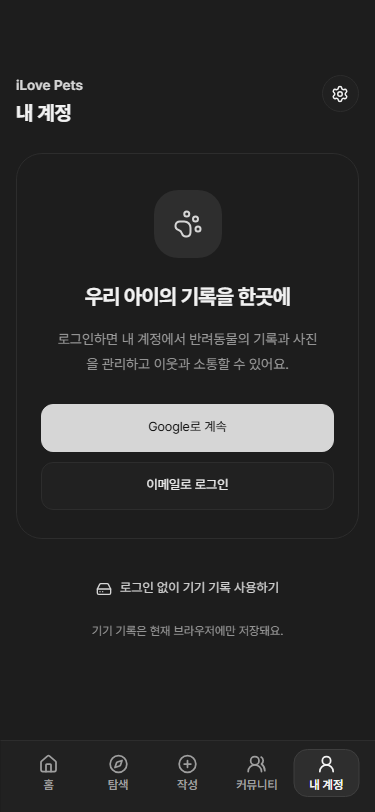
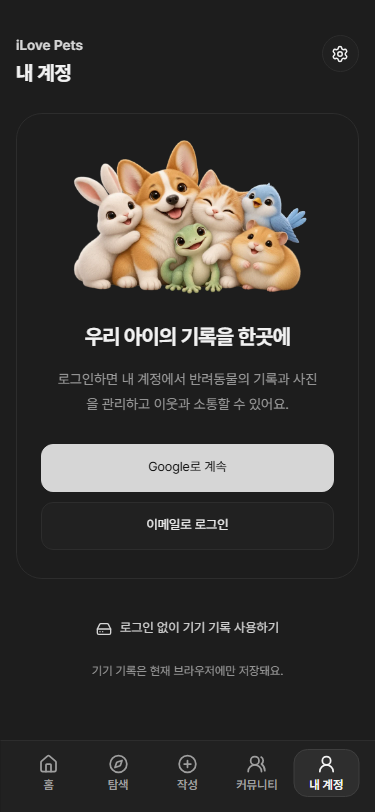
docs: refresh illustrated welcome captures and asset provenance

diff --git a/MyAIAgent/ilove-pets-ui-refresh.md b/MyAIAgent/ilove-pets-ui-refresh.md
@@ -29,3 +29,9 @@
 카테고리는 별도 좌우 화살표를 제거하고 하나의 둥근 바 안에서 선택 항목만 강조한다. 가로 스크롤과 양끝 그라데이션으로 넘길 수 있음을 표시하고, 방향키·Home·End로 초점을 이동한다. 선택은 Enter·Space 또는 클릭으로 확정한다. 선택 항목과 키보드 초점은 보이는 범위로 이동하며 ResizeObserver로 너비 변화를 반영한다.
 
 검증: 앱 39개 파일·194개 통과. Chromium 관련 47개 통과(기기 자료 보존, 인증·프로필, 성장 수정, 백업·복원, 오프라인, 3개 언어·라이트/다크·375/768/1280px 포함). 타입 검사·변경 파일 린트·production 빌드를 확인했다. 서버 계약은 변경하지 않았다. 브라우저 화면 검사는 실물 휴대전화 또는 실제 Google 인증의 재검증과 구분한다. 홈·비로그인 내 계정 캡처와 README 진입 시나리오를 갱신했다.
+
+## 동물 가족 일러스트
+
+2026-10-15. 비로그인 내 계정의 발바닥 아이콘을 웰시코기·고양이·도마뱀·토끼·새·햄스터 6마리의 AI 생성 가족 일러스트로 교체했다. 내장 이미지 생성 도구를 사용했고 원본과 최종 프롬프트는 `assets/README.md`에 기록했다. 웹용은 투명 alpha를 유지한 768×512 WebP 74,818 bytes이며 원본 PNG도 보관한다. UI는 최대 너비 272px·높이 168px로 제한해 버튼과 기기 기록 진입 공간을 확보한다. 장식 이미지의 alt는 비워 둔다.
+
+타입 검사·변경 파일 린트·production 빌드와 관련 Chromium 5개 검사를 통과했다. 브라우저 캡처 전에 이미지의 실제 로딩 완료도 확인한다. ko/en/ja·라이트/다크·375/768/1280px를 확인했고 README의 비로그인 내 계정 캡처 2장을 갱신했다.

diff --git a/docs/screenshots/README.md b/docs/screenshots/README.md
@@ -6,6 +6,8 @@
 
 이미지를 합성하거나 UI를 이미지 편집으로 변경하지 않았습니다. 파일은 저장소에 포함되어 GitHub README에서도 상대 경로로 표시됩니다.
 
+비로그인 내 계정의 두 캡처는 발바닥 아이콘을 동물 가족 일러스트로 교체한 빌드에서 다시 촬영했습니다. 화면 안의 일러스트는 AI 생성 에셋이며, [원본과 생성 정보](../../assets/README.md)를 보관합니다. 캡처에는 실제 앱이 렌더링한 이미지를 그대로 사용했습니다.
+
 | 이미지                                           | 화면 및 사용 흐름                                       |
 | ------------------------------------------------ | ------------------------------------------------------- |
 | [home.png](home.png)                             | 홈 카테고리·스토리·피드                                 |
